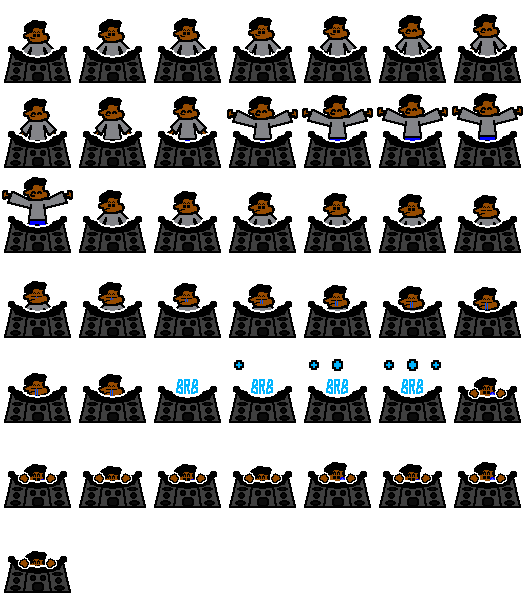
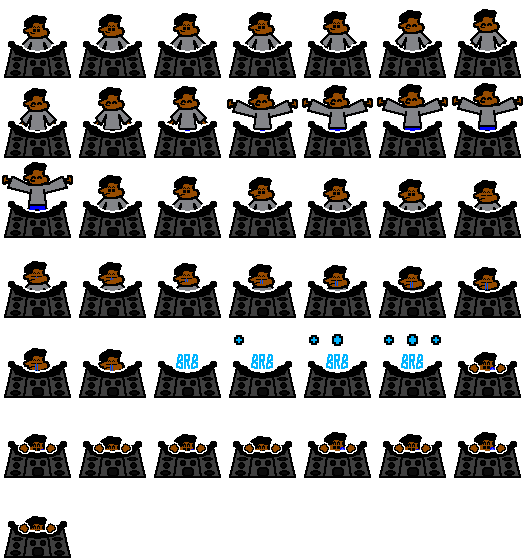
Updates

diff --git a/js/animation.js b/js/animation.js
@@ -4,7 +4,7 @@ var frame = 0;
 
 function gavinwareAnimation() {
     var gavinwareSpritesheet = document.getElementById("gavinware-animation");
-    gavinwareSpritesheet.style.backgroundPosition = `-${x * 75}px -${y * 85}px`;
+    gavinwareSpritesheet.style.backgroundPosition = `-${x * 75}px -${y * 80}px`;
     if (frame < 15) {
         if (x < 6) {
             x++;

diff --git a/gavinware/index.html b/gavinware/index.html
@@ -2,7 +2,7 @@
 <head>
   <title>GavinWare Scoreboard</title>
   <link rel="stylesheet" type="text/css" href="../css/gavinware.css">
-  <link rel="icon" type="images/png" href="../images/gavinware_boombox.png">
+  <link rel="icon" type="images/png" href="../images/gavinware_boombox_icon.png">
 </head>
 <body>
     <a href="../index.html">

diff --git a/index.html b/index.html
@@ -2,7 +2,7 @@
 <head>
   <title>Gavin Murray Scoreboards</title>
   <link rel="stylesheet" type="text/css" href="css/index.css">
-  <link rel="icon" type="images/png" href="images/gavinware_boombox.png">
+  <link rel="icon" type="images/png" href="images/gavinware_boombox_icon.png">
 </head>
 <body>
   <a href="index.html">

diff --git a/css/gavinware.css b/css/gavinware.css
@@ -5,7 +5,7 @@
 
 #gavinware-animation {
   width: 75px;
-  height: 85px;
+  height: 80px;
   image-rendering: pixelated;
   background-image: url('../images/gavinware_boombox.png');
   background-position: 0px 0px;

diff --git a/css/index.css b/css/index.css
@@ -5,7 +5,7 @@
 
 #gavinware-animation {
   width: 75px;
-  height: 85px;
+  height: 80px;
   image-rendering: pixelated;
   background-image: url('../images/gavinware_boombox.png');
   background-position: 0px 0px;
